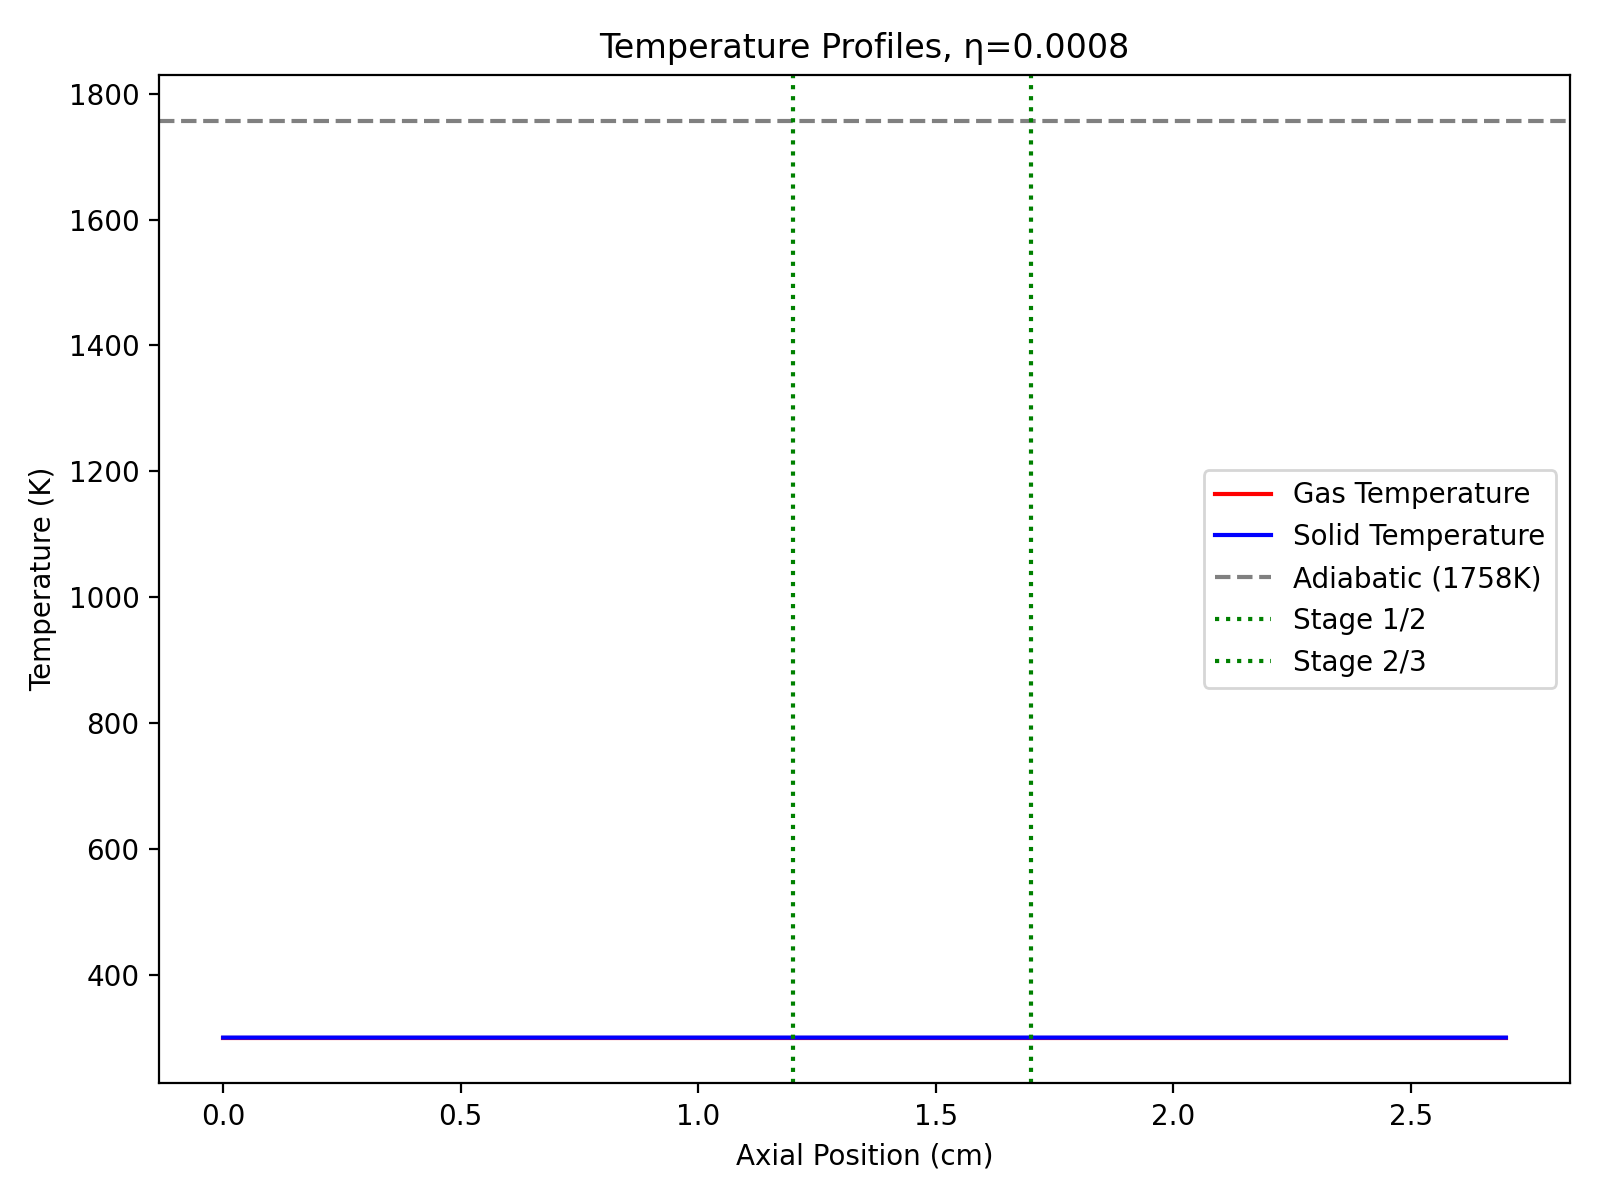
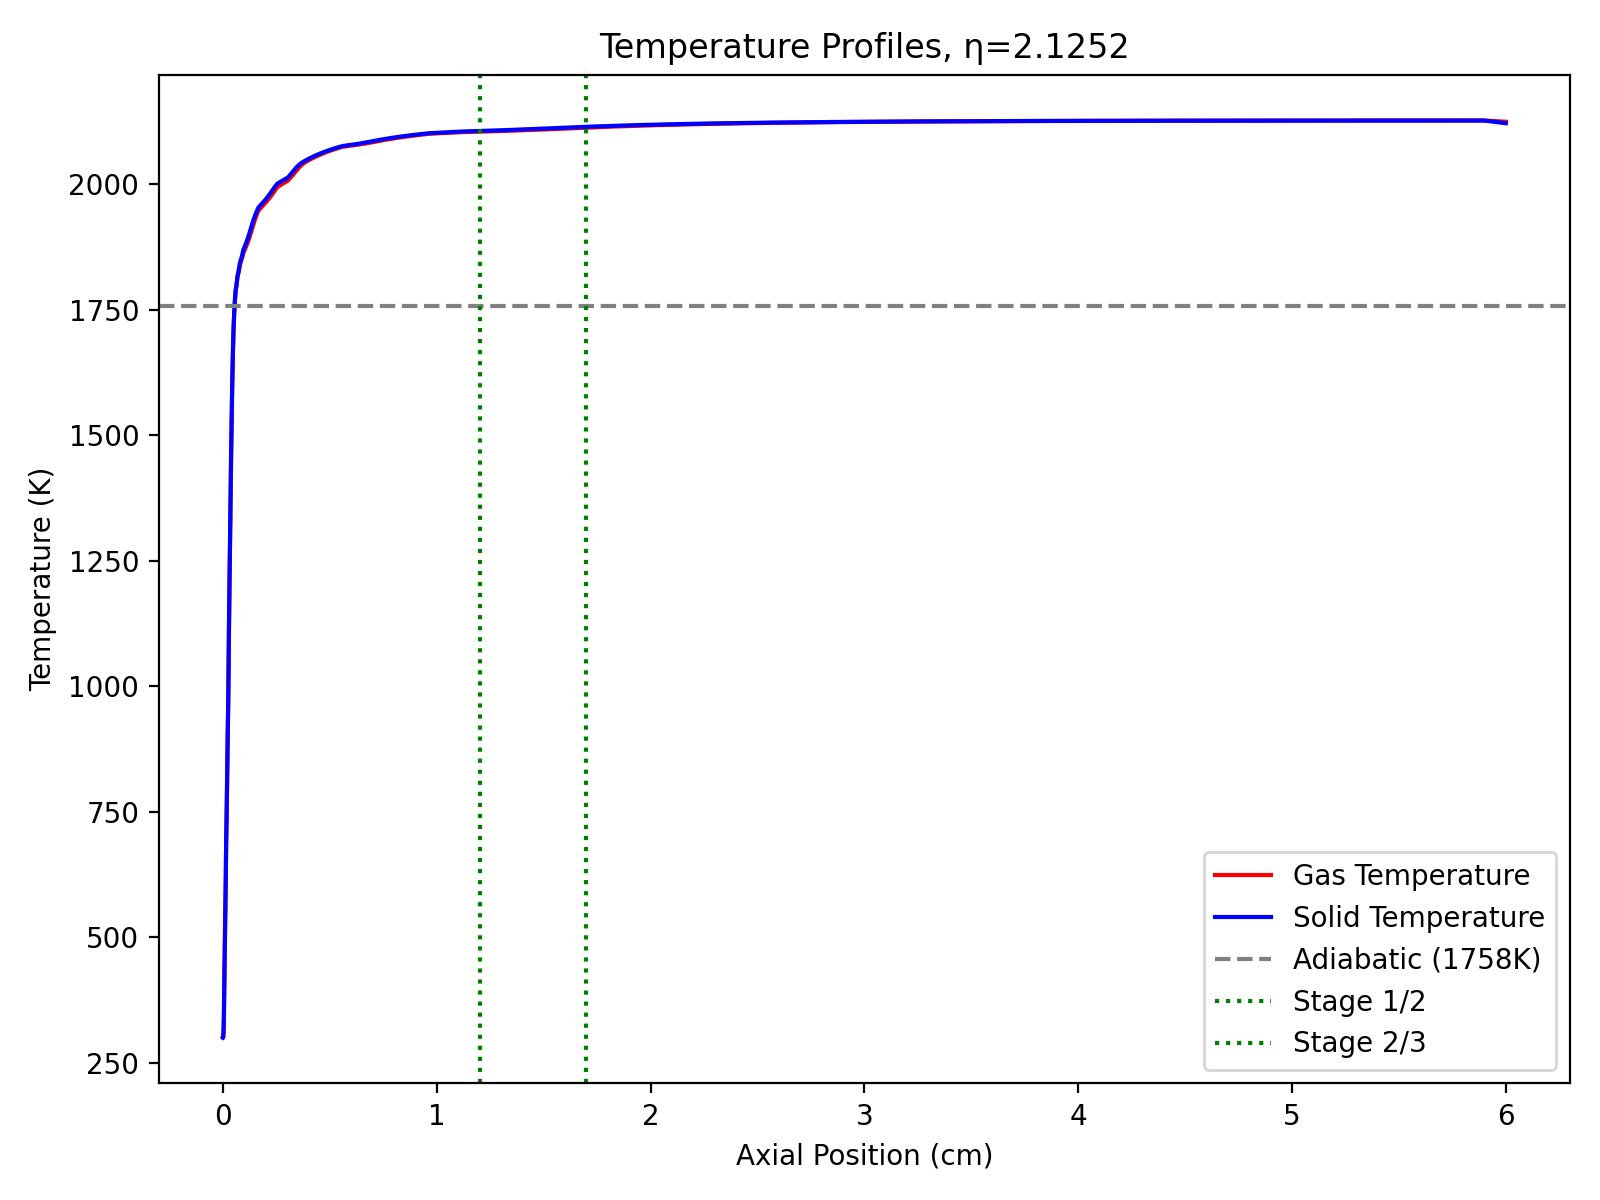
fixed errors

diff --git a/src/simulation.py b/src/simulation.py
@@ -1,3 +1,8 @@
+"""
+THREE-STAGE POROUS BURNER SIMULATION
+Fixed ignition sequence: Set Guess -> Solve Fixed -> Refine
+"""
+
 import numpy as np
 import cantera as ct
 
@@ -5,6 +10,7 @@ _FLAME = None
 _T_AD = None
 
 def get_T_ad():
+    """Adiabatic flame temperature (cached)"""
     global _T_AD
     if _T_AD is None:
         gas = ct.Solution('gri30.yaml')
@@ -15,54 +21,109 @@ def get_T_ad():
     return _T_AD
 
 def _build_adiabatic_flame():
+    """Build initial adiabatic flame with robust ignition sequence"""
     gas = ct.Solution('gri30.yaml')
-    Tin, p, phi, uin = 300.0, ct.one_atm, 1.0, 0.45   # Try phi=1.0 (easier ignition)
-    width = 0.035                                    # Try wider burner
+    # Robust ignition parameters
+    Tin, p, phi, uin = 300.0, ct.one_atm, 1.0, 0.25
+    width = 0.06 
+
     gas.TP = Tin, p
     gas.set_equivalence_ratio(phi, 'CH4', {'O2': 0.21, 'N2': 0.78, 'AR': 0.01})
-    f = ct.BurnerFlame(gas, width=width)
+
+    # 1. Define initial grid
+    grid_pts = 60
+    grid = np.linspace(0, width, grid_pts)
+
+    try:
+        f = ct.BurnerFlame(gas, grid=grid)
+    except TypeError:
+        f = ct.BurnerFlame(gas, width=width)
+        # If we couldn't pass grid in constructor, set it manually if possible, 
+        # or rely on refinement. But usually modern Cantera supports grid=.
+
     f.burner.mdot = gas.density * uin
     f.burner.T = Tin
     f.burner.X = gas.X
     f.transport_model = 'mixture-averaged'
 
-    f.set_refine_criteria(ratio=2.0, slope=0.004, curve=0.005, prune=0.001)
-    f.solve(loglevel=0, refine_grid=True)
-    f.set_initial_guess()
-    f.T[:] = np.linspace(400, 1800, len(f.grid))
+    # 2. CRITICAL: Set initial guess BEFORE solving
+    # If we solve on a flat 300K profile, it converges to "no flame".
+    T_guess = np.zeros(len(f.grid))
+    # Create a ramp from 300K to 2200K to simulate a flame front
+    for i, x in enumerate(f.grid):
+        if x < 0.01:
+            T_guess[i] = 300.0
+        elif x < 0.02:
+            # Ramp up
+            T_guess[i] = 300.0 + (2200.0 - 300.0) * ((x - 0.01) / 0.01)
+        else:
+            T_guess[i] = 2200.0
 
-    print(f"  Grid points: {len(f.grid)}")
+    f.T[:] = T_guess
+
+    # 3. Solve on FIXED grid first (refine_grid=False)
+    # This forces the solver to resolve the gradients we just planted
+    print("  Solving on fixed grid...")
+    try:
+        f.solve(loglevel=0, refine_grid=False)
+    except Exception as e:
+        print(f"  Warning: Fixed grid solve struggled: {e}")
+
+    # 4. Now enable refinement to clean up the solution
+    # Don't prune too aggressively
+    f.set_refine_criteria(ratio=3.0, slope=0.05, curve=0.05, prune=0.0)
+    print("  Refining grid...")
+    f.solve(loglevel=0, refine_grid=True)
+
+    print(f"  Grid points: {len(f.grid)} | Max T: {np.max(f.T):.1f} K")
+
+    if np.max(f.T) < 1000:
+        # Last ditch effort: try the auto-initial guess
+        print("  Attempting auto-initial guess...")
+        f.set_initial_guess()
+        f.solve(loglevel=0, refine_grid=True)
+
+    if np.max(f.T) < 1000:
+        raise RuntimeError('Flame did not ignite. Max T stayed at 300K.')
+
     return f
 
-
-
-
 def get_flame():
+    """Get cached flame or build new one"""
     global _FLAME
     if _FLAME is None:
         _FLAME = _build_adiabatic_flame()
     return _FLAME
 
 class ThreeStageSolver:
+    """
+    Three-stage porous burner solver
+    """
     def __init__(self, z, design_vars, Tg, u, p, X):
         self.z = z
         self.Tg_init = Tg.copy()
         self.u = u
         self.p = p
+
         if X.ndim == 2:
             self.X = X[:, len(z)//2]
         else:
             self.X = X
-        self.L1 = 0.012
-        self.L2 = 0.017
-        self.L3 = 0.027
+
+        # Stage boundaries (using 6cm total width from flame build)
+        self.L1 = 0.020
+        self.L2 = 0.035
+        self.L3 = 0.060
+
         self.dp1 = 0.5e-3
         self.eps1 = 0.40
+
         dp2_mm, eps2, dp3_mm, eps3 = design_vars
         self.dp2 = dp2_mm * 1e-3
         self.eps2 = eps2
         self.dp3 = dp3_mm * 1e-3
         self.eps3 = eps3
+
         self.k_s = 5.0
         self.sigma = 5.67e-8
         self.emissivity = 0.85
@@ -83,28 +144,36 @@ class ThreeStageSolver:
         cp = self.gas.cp_mass
         mu = self.gas.viscosity
         k_g = self.gas.thermal_conductivity
-        Re = max(rho * (u_local/eps) * dp / mu, 1e-6)  # Effective velocity
+
+        Re = max(rho * (u_local/eps) * dp / mu, 1e-6)
         Pr = mu * cp / k_g
+
         if eps < 0.3:
             Nu = 2.0 + 1.6 * (Re**0.6) * (Pr**(1/3))
         elif eps > 0.85:
             Nu = 2.0 + 0.7 * (Re**0.6) * (Pr**(1/3))
         else:
             Nu = 2.0 + 1.1 * (Re**0.6) * (Pr**(1/3))
+
         h = Nu * k_g / dp
         av = 6.0 * (1 - eps) / dp
         return h * av
 
     def _effective_conductivity(self, eps):
-        return self.k_s * (1 - eps)**1.2 if eps > 0.85 else self.k_s * (1 - eps)
+        if eps > 0.85:
+            return self.k_s * (1 - eps)**1.2
+        else:
+            return self.k_s * (1 - eps)
 
     def _solve_solid(self, Tg, Ts_old):
         n = len(self.z)
         a = np.zeros(n); b = np.zeros(n); c = np.zeros(n); d = np.zeros(n)
+
         for i in range(n):
             dp, eps = self._get_stage_properties(self.z[i])
             k_eff = self._effective_conductivity(eps)
             hv = self._heat_transfer_coeff(dp, eps, self.u[i], 0.5*(Tg[i] + Ts_old[i]))
+
             if i == 0:
                 b[i] = 1.0; d[i] = Tg[i]
             elif i == n-1:
@@ -115,55 +184,76 @@ class ThreeStageSolver:
             else:
                 dz_prev = self.z[i]-self.z[i-1]
                 dz_next = self.z[i+1]-self.z[i]
-                a[i]=-k_eff/dz_prev
-                c[i]=-k_eff/dz_next
-                b[i]=k_eff/dz_prev + k_eff/dz_next + hv
-                d[i]=hv*Tg[i]
+                a[i] = -k_eff/dz_prev
+                c[i] = -k_eff/dz_next
+                b[i] = k_eff/dz_prev + k_eff/dz_next + hv
+                d[i] = hv*Tg[i]
+
         return self._solve_tridiagonal(a, b, c, d)
 
     def _update_gas(self, Tg_old, Ts):
         n = len(self.z)
         Tg_new = Tg_old.copy()
+
         for i in range(1, n):
             dp, eps = self._get_stage_properties(self.z[i])
             hv = self._heat_transfer_coeff(dp, eps, self.u[i], 0.5*(Tg_old[i]+Ts[i]))
+
             self.gas.TPX = 0.5*(Tg_old[i]+Ts[i]), self.p, self.X
-            rho = self.gas.density; cp = self.gas.cp_mass
+            rho = self.gas.density
+            cp = self.gas.cp_mass
+
             dz = self.z[i] - self.z[i-1]
             denom = rho * cp * self.u[i]
             Q_exchange = hv * (Ts[i] - Tg_old[i])
+
             if denom > 1e-6:
                 Tg_new[i] = Tg_old[i-1] + (Q_exchange * dz) / denom
             else:
                 Tg_new[i] = Tg_old[i]
+
             Tg_new[i] = np.clip(Tg_new[i], 300, 2200)
+
         Tg_new[0] = 300.0
         return Tg_new
 
     def solve(self, max_iter=12, tol=10.0):
-        n = len(self.z)
         Tg = self.Tg_init.copy()
         Ts = self.Tg_init.copy()
+
         for iteration in range(max_iter):
             Ts_new = self._solve_solid(Tg, Ts)
             Tg_new = self._update_gas(Tg, Ts_new)
+
             Ts = self.relax * Ts_new + (1-self.relax) * Ts
             Tg = self.relax * Tg_new + (1-self.relax) * Tg
-            if max(np.abs(Ts-Ts_new)) < tol and max(np.abs(Tg-Tg_new)) < tol:
+
+            err_s = np.max(np.abs(Ts-Ts_new))
+            err_g = np.max(np.abs(Tg-Tg_new))
+
+            if err_s < tol and err_g < tol:
                 break
+
         T_ad = get_T_ad()
         efficiency = (Ts[-1]/T_ad)**4
         return efficiency, Ts, Tg
 
     def _solve_tridiagonal(self, a, b, c, d):
         n = len(d)
-        c_prime = np.zeros(n); d_prime = np.zeros(n); x = np.zeros(n)
-        c_prime[0] = c[0] / b[0]; d_prime[0] = d[0] / b[0]
+        c_prime = np.zeros(n)
+        d_prime = np.zeros(n)
+        x = np.zeros(n)
+
+        c_prime[0] = c[0] / b[0]
+        d_prime[0] = d[0] / b[0]
+
         for i in range(1, n):
             denom = b[i] - a[i] * c_prime[i-1]
             c_prime[i] = c[i] / denom
             d_prime[i] = (d[i] - a[i] * d_prime[i-1]) / denom
+
         x[-1] = d_prime[-1]
         for i in range(n-2, -1, -1):
             x[i] = d_prime[i] - c_prime[i] * x[i+1]
+
         return x
